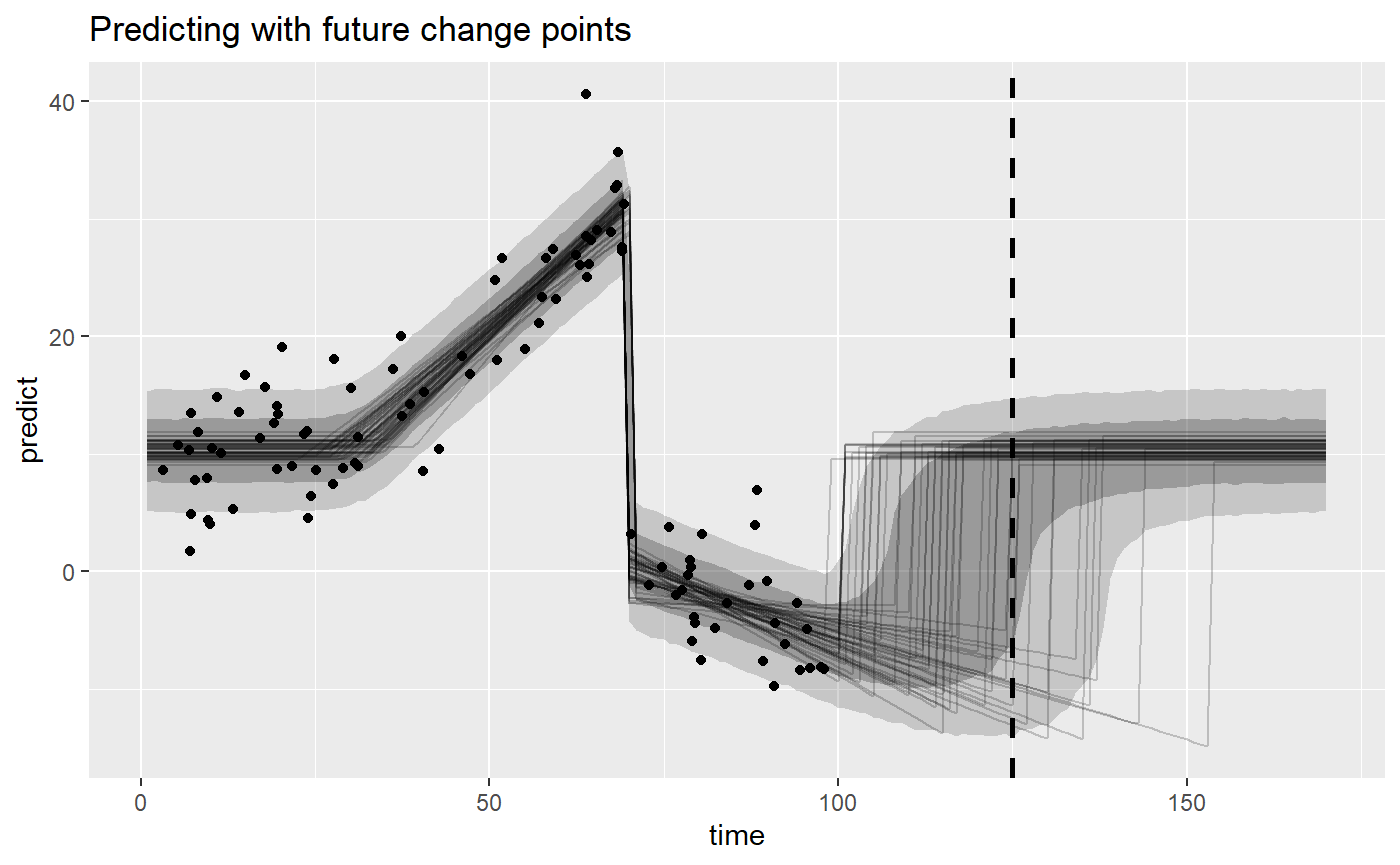
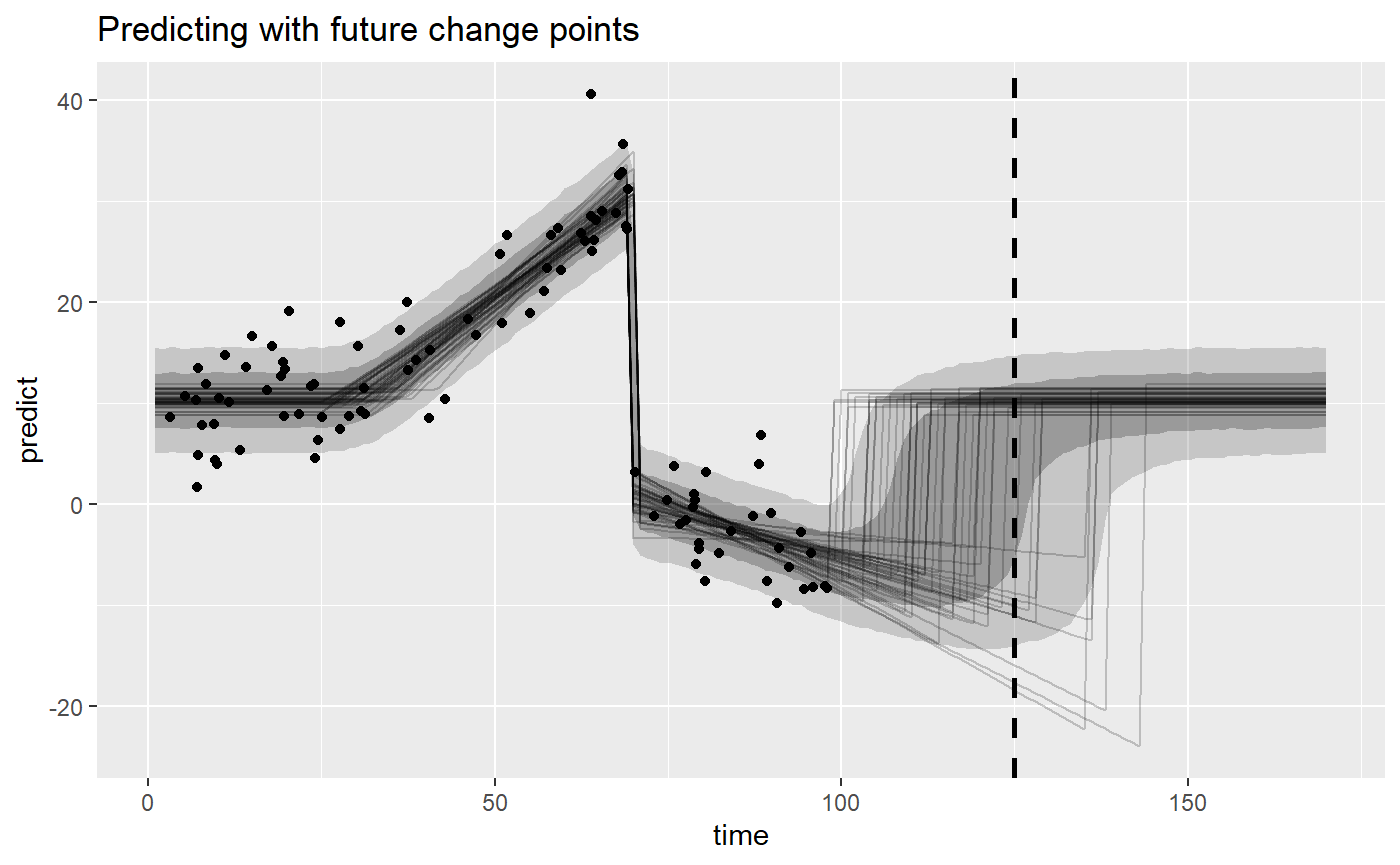
Update predict vignette

diff --git a/docs/articles/predict.html b/docs/articles/predict.html
@@ -217,13 +217,13 @@
 <a href="#extracting-fitted-values" class="anchor"></a>Extracting <code>fitted()</code> values</h1>
 <p>To get the fitted values for each data point, simply do <code><a href="../reference/fitted.mcpfit.html">fitted(fit)</a></code>:</p>
 <div class="sourceCode" id="cb5"><html><body><pre class="r"><span class="fu"><a href="https://rdrr.io/r/utils/head.html">head</a></span>(<span class="fu"><a href="../reference/fitted.mcpfit.html">fitted</a></span>(<span class="no">fit</span>))</pre></body></html></div>
-<pre><code>##       time    fitted     error      Q2.5     Q97.5
-## 1 68.35820 30.360350 1.0675495 28.263256 32.468359
-## 2 87.29038 -3.328389 0.7622667 -4.824102 -1.839636
-## 3 69.01173 30.713316 1.1010278 28.554636 32.885493
-## 4 11.59361 10.294163 0.7383882  8.809080 11.711138
-## 5 19.50091 10.299688 0.7338284  8.822302 11.715144
-## 6 46.12009 18.349713 1.0449278 15.887739 20.098022</code></pre>
+<pre><code>##       time    fitted     error      Q2.5    Q97.5
+## 1 68.35820 30.368412 1.0550623 28.309231 32.43337
+## 2 87.29038 -3.327456 0.7582516 -4.817741 -1.85705
+## 3 69.01173 30.720513 1.0880345 28.609484 32.86864
+## 4 11.59361 10.265911 0.7150633  8.869836 11.66827
+## 5 19.50091 10.266224 0.7145484  8.869836 11.66827
+## 6 46.12009 18.387190 1.0300460 15.909229 20.08055</code></pre>
 <p>In general, this output will include:</p>
 <ul>
 <li><p>A column for each predictor column in the data. Here, <code>time</code> is the only predictor and you see the values in the same order as in <code>ex_demo</code> (which is copied to <code>fit$data</code>). But models with <a href="../articles/varying.html">varying change points</a> will additionally have a column for the varying data, <code><a href="https://rdrr.io/r/stats/family.html">binomial()</a></code> models include the number of trials, etc.</p></li>
@@ -239,10 +239,10 @@
 <div class="sourceCode" id="cb7"><html><body><pre class="r"><span class="no">newdata</span> <span class="kw">=</span> <span class="fu"><a href="https://rdrr.io/r/base/data.frame.html">data.frame</a></span>(<span class="kw">time</span> <span class="kw">=</span> <span class="fu"><a href="https://rdrr.io/r/base/c.html">c</a></span>(<span class="no">ex_demo</span>$<span class="no">time</span>[<span class="fl">1</span>], <span class="fl">25</span>, -<span class="fl">20</span>, <span class="fl">200</span>))
 <span class="fu"><a href="../reference/fitted.mcpfit.html">fitted</a></span>(<span class="no">fit</span>, <span class="kw">newdata</span> <span class="kw">=</span> <span class="no">newdata</span>)</pre></body></html></div>
 <pre><code>##       time    fitted      error       Q2.5     Q97.5
-## 1  68.3582  30.36035  1.0675495  28.263256 32.468359
-## 2  25.0000  10.35250  0.7160763   8.968458 11.783576
-## 3 -20.0000  10.29398  0.7384837   8.809080 11.711138
-## 4 200.0000 -28.25347 10.5704540 -49.686861 -8.156723</code></pre>
+## 1  68.3582  30.36841  1.0550623  28.309231 32.433369
+## 2  25.0000  10.30424  0.6984145   8.938691 11.687439
+## 3 -20.0000  10.26591  0.7150633   8.869836 11.668270
+## 4 200.0000 -28.24084 10.6526088 -49.298540 -7.905933</code></pre>
 <p>Note that:</p>
 <ul>
 <li>We get one row per value of <code>time</code>.</li>
@@ -265,12 +265,12 @@
 <div class="sourceCode" id="cb9"><html><body><pre class="r"><span class="fu"><a href="https://rdrr.io/r/base/Random.html">set.seed</a></span>(<span class="fl">42</span>)
 <span class="fu"><a href="https://rdrr.io/r/utils/head.html">head</a></span>(<span class="fu"><a href="../reference/predict.mcpfit.html">predict</a></span>(<span class="no">fit</span>, <span class="kw">probs</span> <span class="kw">=</span> <span class="fu"><a href="https://rdrr.io/r/base/c.html">c</a></span>(<span class="fl">0.1</span>, <span class="fl">0.9</span>)))</pre></body></html></div>
 <pre><code>##       time   predict    error       Q10       Q90
-## 1 68.35820 30.286036 4.180773 25.048992 35.701717
-## 2 87.29038 -3.352445 4.093294 -8.642547  1.931335
-## 3 69.01173 30.773631 4.169833 25.432658 36.097625
-## 4 11.59361 10.255830 4.087815  5.152514 15.553834
-## 5 19.50091 10.180018 4.104859  4.906673 15.410395
-## 6 46.12009 18.364016 4.152380 13.126940 23.705630</code></pre>
+## 1 68.35820 30.290758 4.180889 24.959966 35.672366
+## 2 87.29038 -3.356899 4.096895 -8.557500  1.863498
+## 3 69.01173 30.774682 4.177943 25.388760 36.165843
+## 4 11.59361 10.229859 4.069645  5.099154 15.407656
+## 5 19.50091 10.151982 4.082748  4.874197 15.365314
+## 6 46.12009 18.405480 4.135477 13.123604 23.713663</code></pre>
 <p>Note that <code><a href="../reference/predict.mcpfit.html">predict()</a></code> uses random sampling under the hood, so these values will differ slightly from call to call. You can make it replicable using <code><a href="https://rdrr.io/r/base/Random.html">set.seed()</a></code> as above. In general, the more posterior samples, the less the call-to-call variance will be. Conversely, fewer samples means more call-to-call variation, e.g., if you do <code><a href="../reference/predict.mcpfit.html">predict(fit, nsamples = 10)</a></code>).</p>
 </div>
 <div id="residuals" class="section level1">
@@ -309,8 +309,8 @@
 <a href="#step-3-predict" class="anchor"></a>Step 3: predict!</h2>
 <p>We can go right ahead and compute our 50% and 80% prediction intervals at <code>time = 125</code>:</p>
 <div class="sourceCode" id="cb15"><html><body><pre class="r"><span class="fu"><a href="../reference/predict.mcpfit.html">predict</a></span>(<span class="no">fit_forecast</span>, <span class="kw">newdata</span> <span class="kw">=</span> <span class="fu"><a href="https://rdrr.io/r/base/data.frame.html">data.frame</a></span>(<span class="kw">time</span> <span class="kw">=</span> <span class="fl">125</span>), <span class="kw">probs</span> <span class="kw">=</span> <span class="fu"><a href="https://rdrr.io/r/base/c.html">c</a></span>(<span class="fl">0.1</span>, <span class="fl">0.25</span>, <span class="fl">0.75</span>, <span class="fl">0.9</span>))</pre></body></html></div>
-<pre><code>##   time  predict    error       Q10       Q25     Q75      Q90
-## 1  125 3.858749 10.87805 -13.61713 -5.641222 11.7366 14.54403</code></pre>
+<pre><code>##   time  predict    error      Q10       Q25      Q75      Q90
+## 1  125 3.946098 10.99492 -13.8512 -5.578755 11.79398 14.61287</code></pre>
 <p>To really understand what’s going on here, it may be helpful to visualize the model. For now, we will have to hack this a bit too, manually doing our plot:</p>
 <div class="sourceCode" id="cb17"><html><body><pre class="r"><span class="co"># Get posterior and posterior predictive "predictions"</span>
 <span class="no">newdata</span> <span class="kw">=</span> <span class="fu"><a href="https://rdrr.io/r/base/data.frame.html">data.frame</a></span>(<span class="kw">time</span> <span class="kw">=</span> <span class="fl">1</span>:<span class="fl">170</span>)
